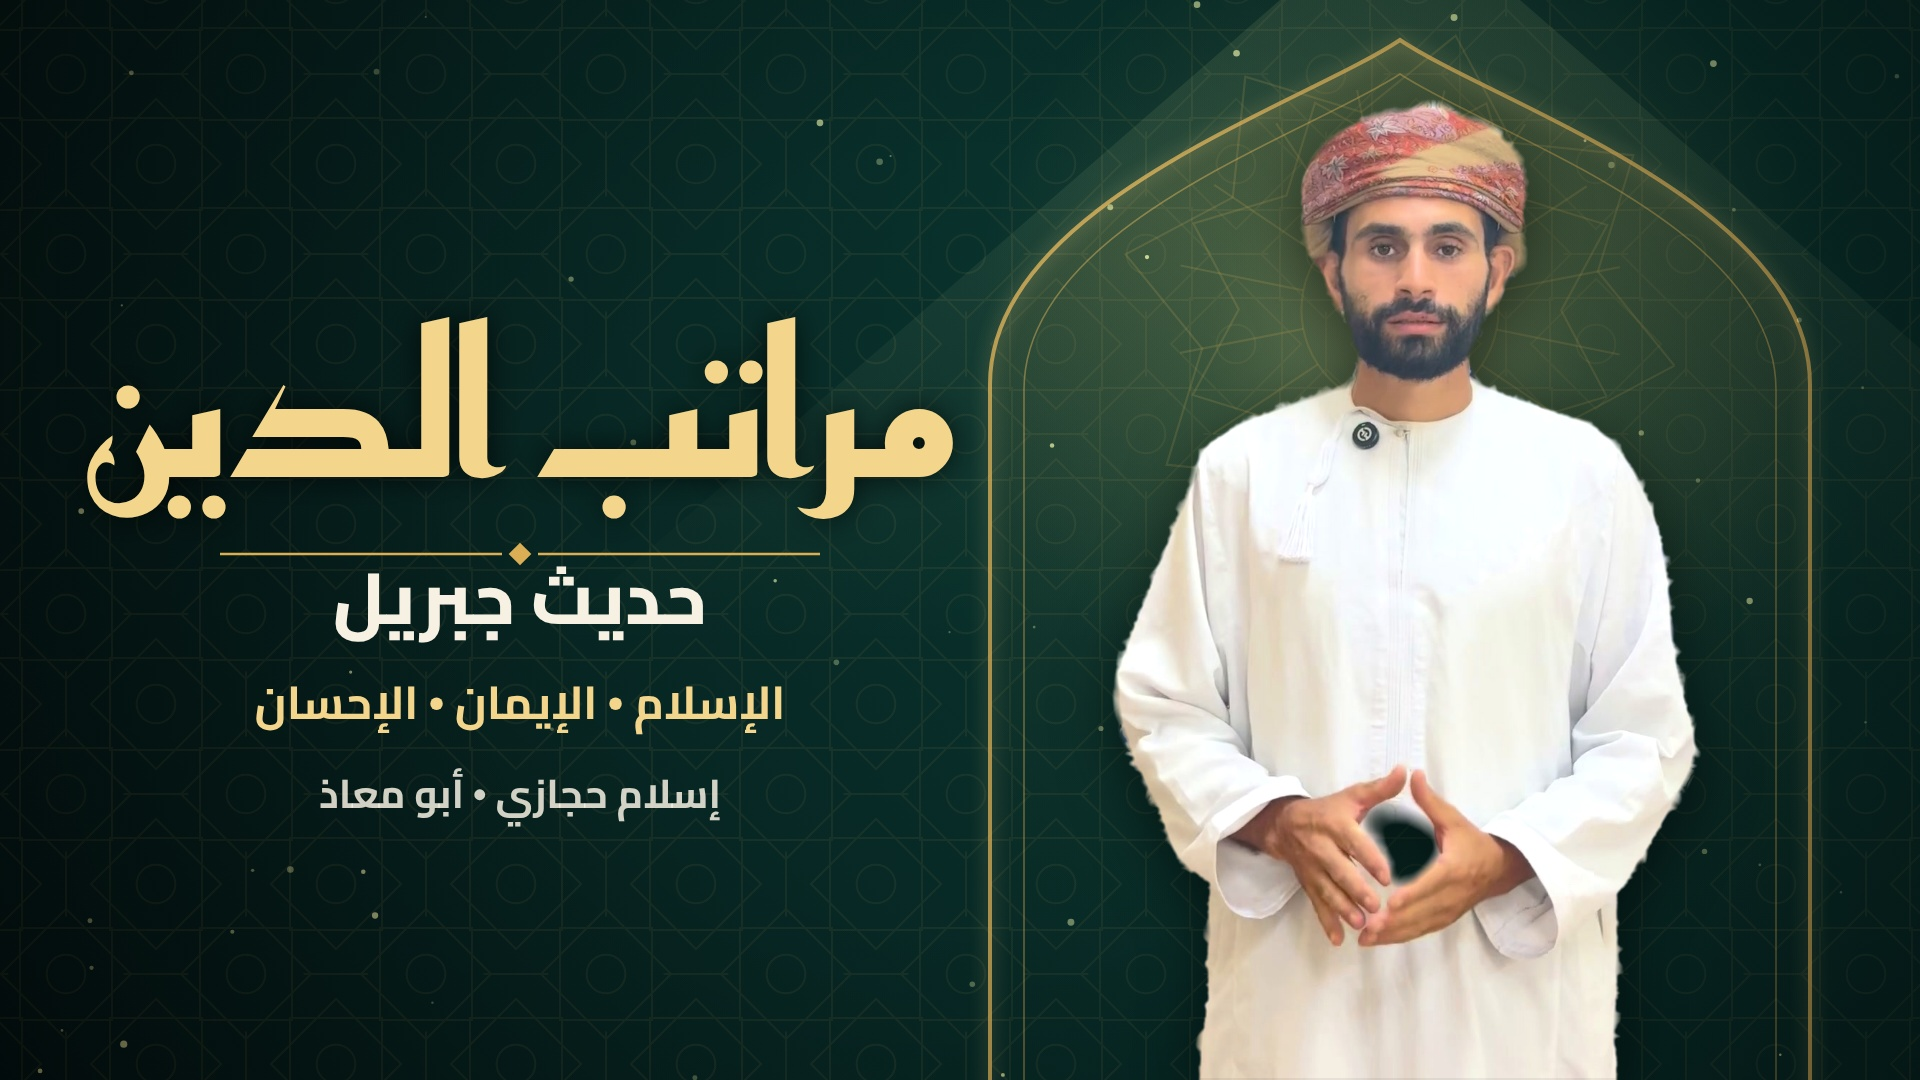
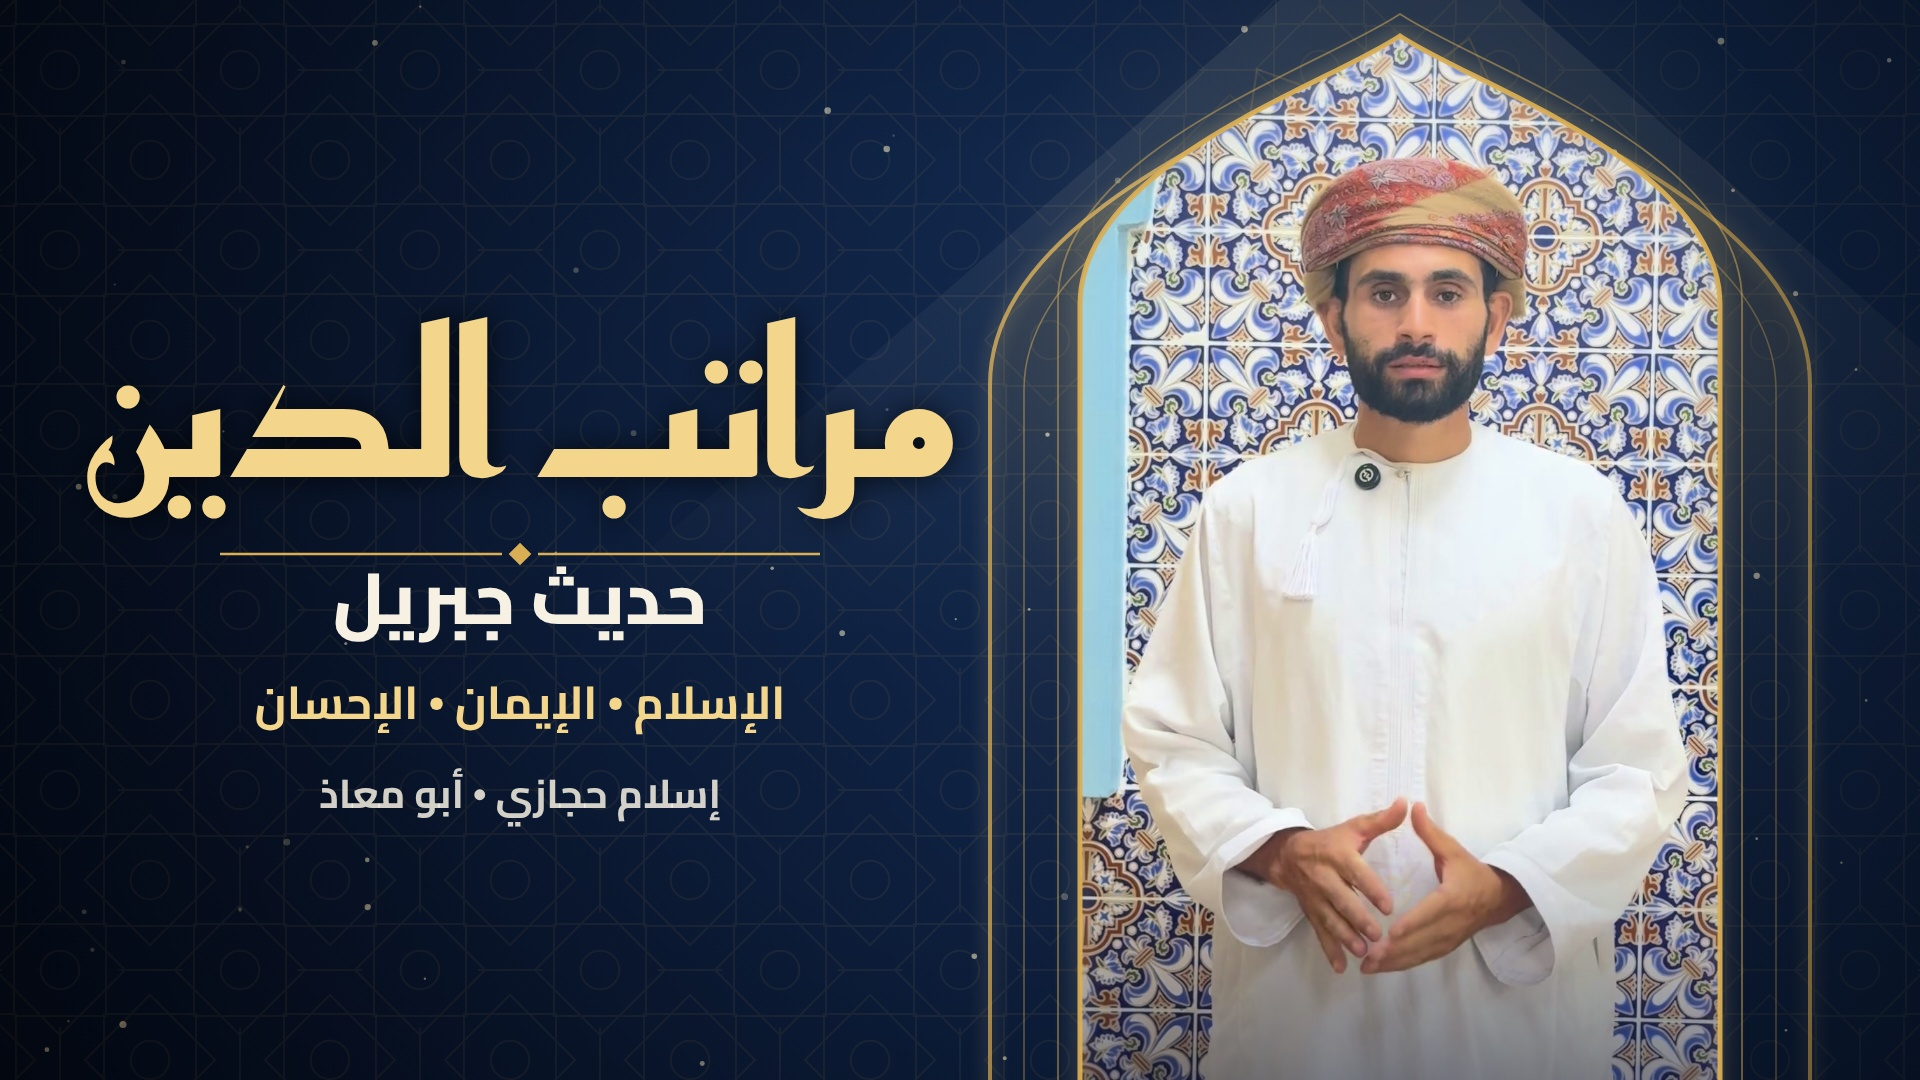
Maratib al-Deen v2: keep original background (no cutout), navy/gold overlays, arch window for 16:9
Claude-Session: https://claude.ai/code/session_01N8E6bfw2zUCDR7EkM9K8Jj

diff --git a/productions/maratib-aldeen/engine/compose.html b/productions/maratib-aldeen/engine/compose.html
@@ -16,7 +16,7 @@ canvas{display:block}
 <canvas id="c"></canvas>
 <script>
 // ---------- theme ----------
-const TH = { bg0:'#0B3A33', bg1:'#072522', bg2:'#031110', ink:'#F7F1E3', acc:'#D9AE55', acc2:'#F3D58C', card:'rgba(4,22,20,0.78)' };
+const TH = { bg0:'#16305A', bg1:'#0B1A35', bg2:'#040A18', ink:'#F7F1E3', acc:'#D9AE55', acc2:'#F3D58C', card:'rgba(9,20,44,0.80)' };
 let D = null;            // data.json (set by renderer)
 let W = 1080, H = 1920, MODE = 'reel';
 const cv = document.getElementById('c'); const X = cv.getContext('2d');
@@ -234,7 +234,7 @@ function drawLevels(t){
     X.beginPath(); X.moveTo(-wt/2,-R.h/2); X.lineTo(wt/2,-R.h/2); X.lineTo(wb/2,R.h/2); X.lineTo(-wb/2,R.h/2); X.closePath();
     if(on){ const gg=X.createLinearGradient(0,-R.h/2,0,R.h/2); gg.addColorStop(0,'#F3D58C'); gg.addColorStop(1,'#C9963B'); X.fillStyle=gg;
       X.shadowColor='rgba(243,213,140,.7)'; X.shadowBlur=act===3?10:30; }
-    else X.fillStyle= lit ? 'rgba(217,174,85,.30)' : 'rgba(4,22,20,.80)';
+    else X.fillStyle= lit ? 'rgba(217,174,85,.30)' : 'rgba(9,20,44,.80)';
     X.fill(); X.shadowBlur=0; X.lineWidth=2.5; X.strokeStyle='rgba(243,213,140,.85)'; X.stroke();
     X.fillStyle = on ? '#0A2A26' : TH.ink;
     const big = MODE==='reel'?58:58;
@@ -265,7 +265,7 @@ function drawPillars(t){
     rr(-w/2,-h/2,w,h,h/2);
     if(on){ const gg=X.createLinearGradient(0,-h/2,0,h/2); gg.addColorStop(0,'#F3D58C'); gg.addColorStop(1,'#C9963B'); X.fillStyle=gg;
       if(cur){ X.shadowColor='rgba(243,213,140,.75)'; X.shadowBlur=30; } }
-    else X.fillStyle='rgba(4,22,20,.82)';
+    else X.fillStyle='rgba(9,20,44,.82)';
     X.fill(); X.shadowBlur=0; X.lineWidth=2.5; X.strokeStyle='rgba(243,213,140,.85)'; X.stroke();
     X.font=`800 ${lab.length>6?40:44}px Cairo`; X.fillStyle= on ? '#0A2A26' : 'rgba(247,241,227,.55)'; X.fillText(lab,24,4);
     // number medallion (right side, RTL start)
@@ -300,7 +300,7 @@ function drawName(t){
   X.save(); X.globalAlpha=a; X.direction='rtl'; X.textBaseline='middle'; X.textAlign='center';
   X.translate(R.x,R.y);
   const w=560*p+40;
-  X.fillStyle='rgba(4,22,20,.85)'; rr(-w/2,-62,w,124,22); X.fill(); X.strokeStyle=TH.acc; X.lineWidth=2.5; X.stroke();
+  X.fillStyle='rgba(9,20,44,.85)'; rr(-w/2,-62,w,124,22); X.fill(); X.strokeStyle=TH.acc; X.lineWidth=2.5; X.stroke();
   X.beginPath(); X.rect(-w/2,-62,w,124); X.clip();
   X.font='800 54px Cairo'; X.fillStyle=TH.ink; X.fillText('إسلام حجازي',0,-18);
   X.font='700 34px Cairo'; X.fillStyle=TH.acc2; X.fillText('أبو معاذ',0,32);
@@ -313,7 +313,7 @@ function drawOutro(t){
   X.save(); X.globalAlpha=a; X.direction='rtl'; X.textAlign='center'; X.textBaseline='middle';
   const R = MODE==='reel' ? {x:540,y:1215,w:760} : {x:540,y:800,w:820};
   const p=eob(clamp((t-s)/.5)); X.translate(R.x,R.y); X.scale(.85+.15*p,.85+.15*p);
-  X.fillStyle='rgba(4,22,20,.88)'; rr(-R.w/2,-80,R.w,160,28); X.fill(); X.strokeStyle=TH.acc; X.lineWidth=3; X.stroke();
+  X.fillStyle='rgba(9,20,44,.88)'; rr(-R.w/2,-80,R.w,160,28); X.fill(); X.strokeStyle=TH.acc; X.lineWidth=3; X.stroke();
   X.font='800 50px Cairo'; X.fillStyle=TH.acc2; X.fillText('شاركها لتعمّ الفائدة',0,-24);
   X.font='700 34px Cairo'; X.fillStyle=TH.ink; X.fillText('إسلام حجازي  •  أبو معاذ',0,36);
   X.restore();
@@ -327,11 +327,48 @@ async function setup(data, mode){
   return true;
 }
 function loadImg(src){ return new Promise((res,rej)=>{ const i=new Image(); i.onload=()=>res(i); i.onerror=rej; i.src=src; }); }
+
+// ---------- plain style: original background kept, no cutout ----------
+function goldFrame(x,y,w,h,r){
+  X.save(); X.strokeStyle='rgba(217,174,85,.9)'; X.lineWidth=3; X.shadowColor='rgba(0,0,0,.45)'; X.shadowBlur=10;
+  rr(x,y,w,h,r); X.stroke(); X.shadowBlur=0;
+  X.globalAlpha=.55; X.lineWidth=1.5; rr(x+12,y+12,w-24,h-24,Math.max(0,r-10)); X.stroke();
+  X.globalAlpha=1; X.fillStyle=TH.acc;
+  for(const [cx,cy] of [[x,y+h/2],[x+w,y+h/2],[x+w/2,y],[x+w/2,y+h]]){ X.save(); X.translate(cx,cy); X.rotate(Math.PI/4); X.fillRect(-9,-9,18,18); X.restore(); }
+  X.restore();
+}
+function topBusy(t){ const S=D.scenes; return Math.max(
+  ...S.levels.map(l=>win(t,l.s-.4,l.e+.4,.4,.4)), win(t,S.pillars.s-.4,S.pillars.e+.4,.4,.4), clamp((t-S.summary+.4)/.4), win(t,S.hook[0],S.hook[1]+.3,.01,.4)); }
+function drawPlain(t, fi, fit){
+  const z = (1 + .07*(1-ease(clamp(t/0.9)))) * fit.z;
+  if(MODE==='reel'){
+    const s=z, w=fi.width*s, h=fi.height*s;
+    X.drawImage(fi, fit.cx - w*fit.ax, fit.cy - h*fit.ay, w, h);
+    // top shade for titles/graphics (stronger when a graphic is up)
+    const k=.45+.5*topBusy(t);
+    const g=X.createLinearGradient(0,0,0,700); g.addColorStop(0,`rgba(9,20,44,${.9*k})`); g.addColorStop(.6,`rgba(9,20,44,${.55*k})`); g.addColorStop(1,'rgba(9,20,44,0)');
+    X.fillStyle=g; X.fillRect(0,0,W,700);
+    const b=X.createLinearGradient(0,1250,0,H); b.addColorStop(0,'rgba(9,20,44,0)'); b.addColorStop(1,'rgba(9,20,44,.55)'); X.fillStyle=b; X.fillRect(0,1250,W,H-1250);
+    const vg=X.createRadialGradient(W/2,H*.45,W*.45,W/2,H*.45,H*.75); vg.addColorStop(0,'rgba(0,0,0,0)'); vg.addColorStop(1,'rgba(0,0,0,.35)'); X.fillStyle=vg; X.fillRect(0,0,W,H);
+    goldFrame(26,26,W-52,H-52,34);
+  } else {
+    drawBack(t);
+    // video inside a mihrab-shaped window on the right
+    const cx=1400, top=36, aw=640;
+    X.save(); archPath(cx,top,aw,H+40); X.clip();
+    const s=fit.s*z, w=fi.width*s, h=fi.height*s;
+    X.drawImage(fi, cx - w*fit.ax, fit.cy - h*fit.ay, w, h);
+    const vg=X.createLinearGradient(0,H-260,0,H); vg.addColorStop(0,'rgba(9,20,44,0)'); vg.addColorStop(1,'rgba(9,20,44,.5)'); X.fillStyle=vg; X.fillRect(0,0,W,H);
+    X.restore();
+    X.save(); archPath(cx,top,aw,H+40); X.lineWidth=5; X.strokeStyle='rgba(217,174,85,.95)'; X.shadowColor='rgba(243,213,140,.6)'; X.shadowBlur=22; X.stroke();
+    X.shadowBlur=0; archPath(cx,top-22,aw+44,H+40); X.lineWidth=1.8; X.strokeStyle='rgba(217,174,85,.5)'; X.stroke(); X.restore();
+  }
+}
+
 async function frame(t, fsrc, msrc, fit){
-  const [fi,mi]=await Promise.all([loadImg(fsrc),loadImg(msrc)]);
   X.setTransform(1,0,0,1,0,0); X.globalAlpha=1; X.globalCompositeOperation='source-over';
-  drawBack(t);
-  drawPerson(t,fi,mi,fit);
+  if(D.style==='plain'){ const fi=await loadImg(fsrc); drawPlain(t,fi,fit); }
+  else { const [fi,mi]=await Promise.all([loadImg(fsrc),loadImg(msrc)]); drawBack(t); drawPerson(t,fi,mi,fit); }
   drawLevels(t); drawPillars(t); drawHeader(t); drawName(t); drawOutro(t); drawCaptions(t); drawProgress(t); drawTransitions(t);
   return true;
 }
@@ -339,10 +376,10 @@ async function frame(t, fsrc, msrc, fit){
 <script>
 async function cover(fsrc, msrc, fit){
   const [fi,mi]=await Promise.all([loadImg(fsrc),loadImg(msrc)]);
-  X.setTransform(1,0,0,1,0,0); drawBack(4); drawPerson(5,fi,mi,fit);
+  X.setTransform(1,0,0,1,0,0); if(D.style==='plain') drawPlain(5,fi,fit); else { drawBack(4); drawPerson(5,fi,mi,fit); }
   X.save(); X.direction='rtl'; X.textAlign='center'; X.textBaseline='middle';
   const R = MODE==='reel' ? {x:540,y1:1150,y2:1320,f1:190,f2:70,card:[90,1020,900,420]} : {x:520,y1:430,y2:610,f1:200,f2:72,card:null};
-  if(R.card){ const [x,y,w,h]=R.card; const g=X.createLinearGradient(0,y,0,H); g.addColorStop(0,'rgba(4,22,20,0)'); g.addColorStop(.2,'rgba(4,22,20,.85)'); g.addColorStop(1,'rgba(4,22,20,.92)'); X.fillStyle=g; X.fillRect(0,y,W,H-y); }
+  if(R.card){ const [x,y,w,h]=R.card; const g=X.createLinearGradient(0,y,0,H); g.addColorStop(0,'rgba(9,20,44,0)'); g.addColorStop(.2,'rgba(9,20,44,.85)'); g.addColorStop(1,'rgba(9,20,44,.92)'); X.fillStyle=g; X.fillRect(0,y,W,H-y); }
   X.shadowColor='rgba(0,0,0,.7)'; X.shadowBlur=30;
   X.font=`700 ${R.f1}px Kufi`; X.fillStyle=TH.acc2; X.fillText('مراتب الدين',R.x,R.y1);
   X.shadowBlur=0; ornLine(R.x,R.y1+R.f1*.62,300,1);

diff --git a/productions/maratib-aldeen/pipeline/build_data.py b/productions/maratib-aldeen/pipeline/build_data.py
@@ -77,8 +77,9 @@ D={'dur':round(TOT,3),'words':words,'lines':lines,'frames':frames,
              'jump':cut3,'cuts':[cut1,cut2],
              'summary':wt('أتاكم')['s']-0.1,
              'outro':[round(wt('مسلم')['e']+0.35,3),TOT]},
-   'fit':{'reel':[{'s':.949,'cx':579,'bottom':1920},{'s':.976,'cx':609,'bottom':1920},{'s':1.035,'cx':613,'bottom':1920},{'s':.938,'cx':573,'bottom':1920}],
-          'yt':[{'s':.719,'cx':1430,'bottom':1080},{'s':.740,'cx':1452,'bottom':1080},{'s':.777,'cx':1455,'bottom':1080},{'s':.711,'cx':1425,'bottom':1080}]}}
+   'style':'plain',
+   'fit':{'reel':[{'z':1,'ax':.46,'ay':.38,'cx':.46*1080,'cy':.38*1920},{'z':1,'ax':.44,'ay':.40,'cx':.44*1080,'cy':.40*1920},{'z':1.06,'ax':.44,'ay':.40,'cx':.44*1080,'cy':.40*1920},{'z':1,'ax':.47,'ay':.38,'cx':.47*1080,'cy':.38*1920}],
+          'yt':[{'z':1,'s':.70,'ax':.46,'ay':.5,'cy':432},{'z':1,'s':.70,'ax':.435,'ay':.5,'cy':410},{'z':1.06,'s':.70,'ax':.435,'ay':.5,'cy':410},{'z':1,'s':.70,'ax':.47,'ay':.5,'cy':432}]}}
 json.dump(D,open('work/data.json','w'),ensure_ascii=False)
 print('dur',DUR,'total',TOT,'frames',len(frames),'cuts',cut1,cut2,cut3)
 for l in lines: print(round(l['s'],2),round(l['e'],2),' '.join(words[i]['w'] for i in l['words']))
